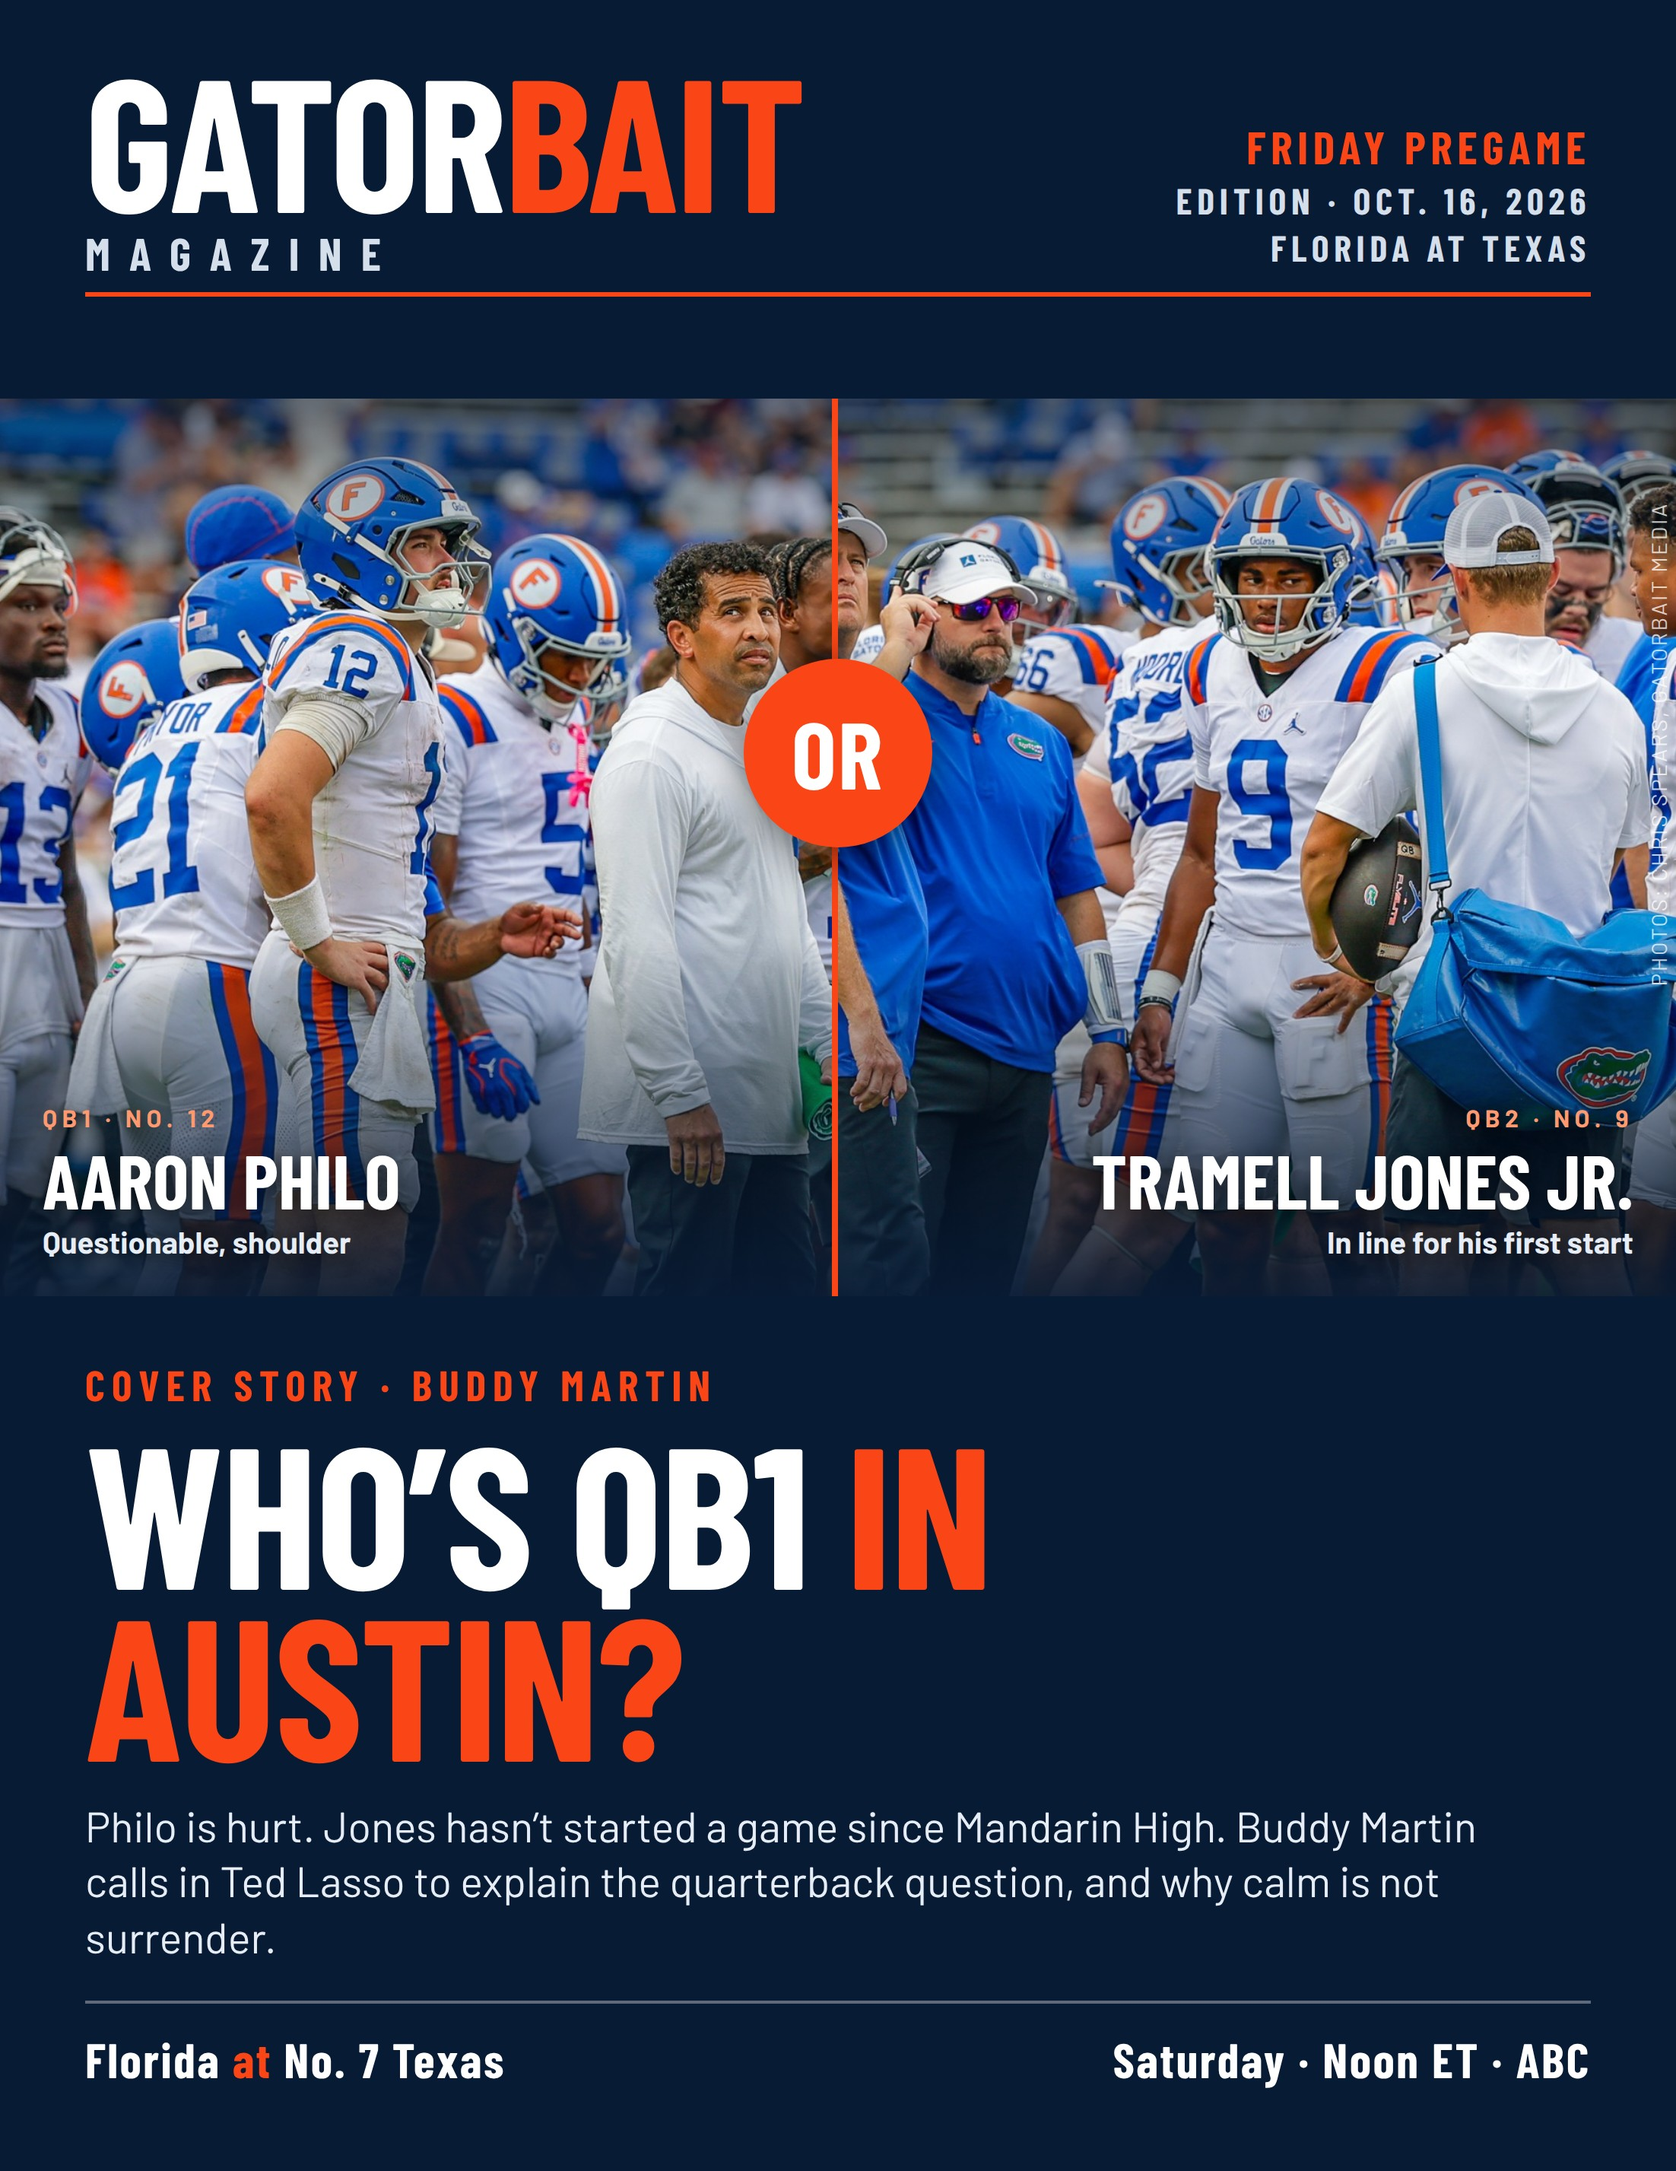
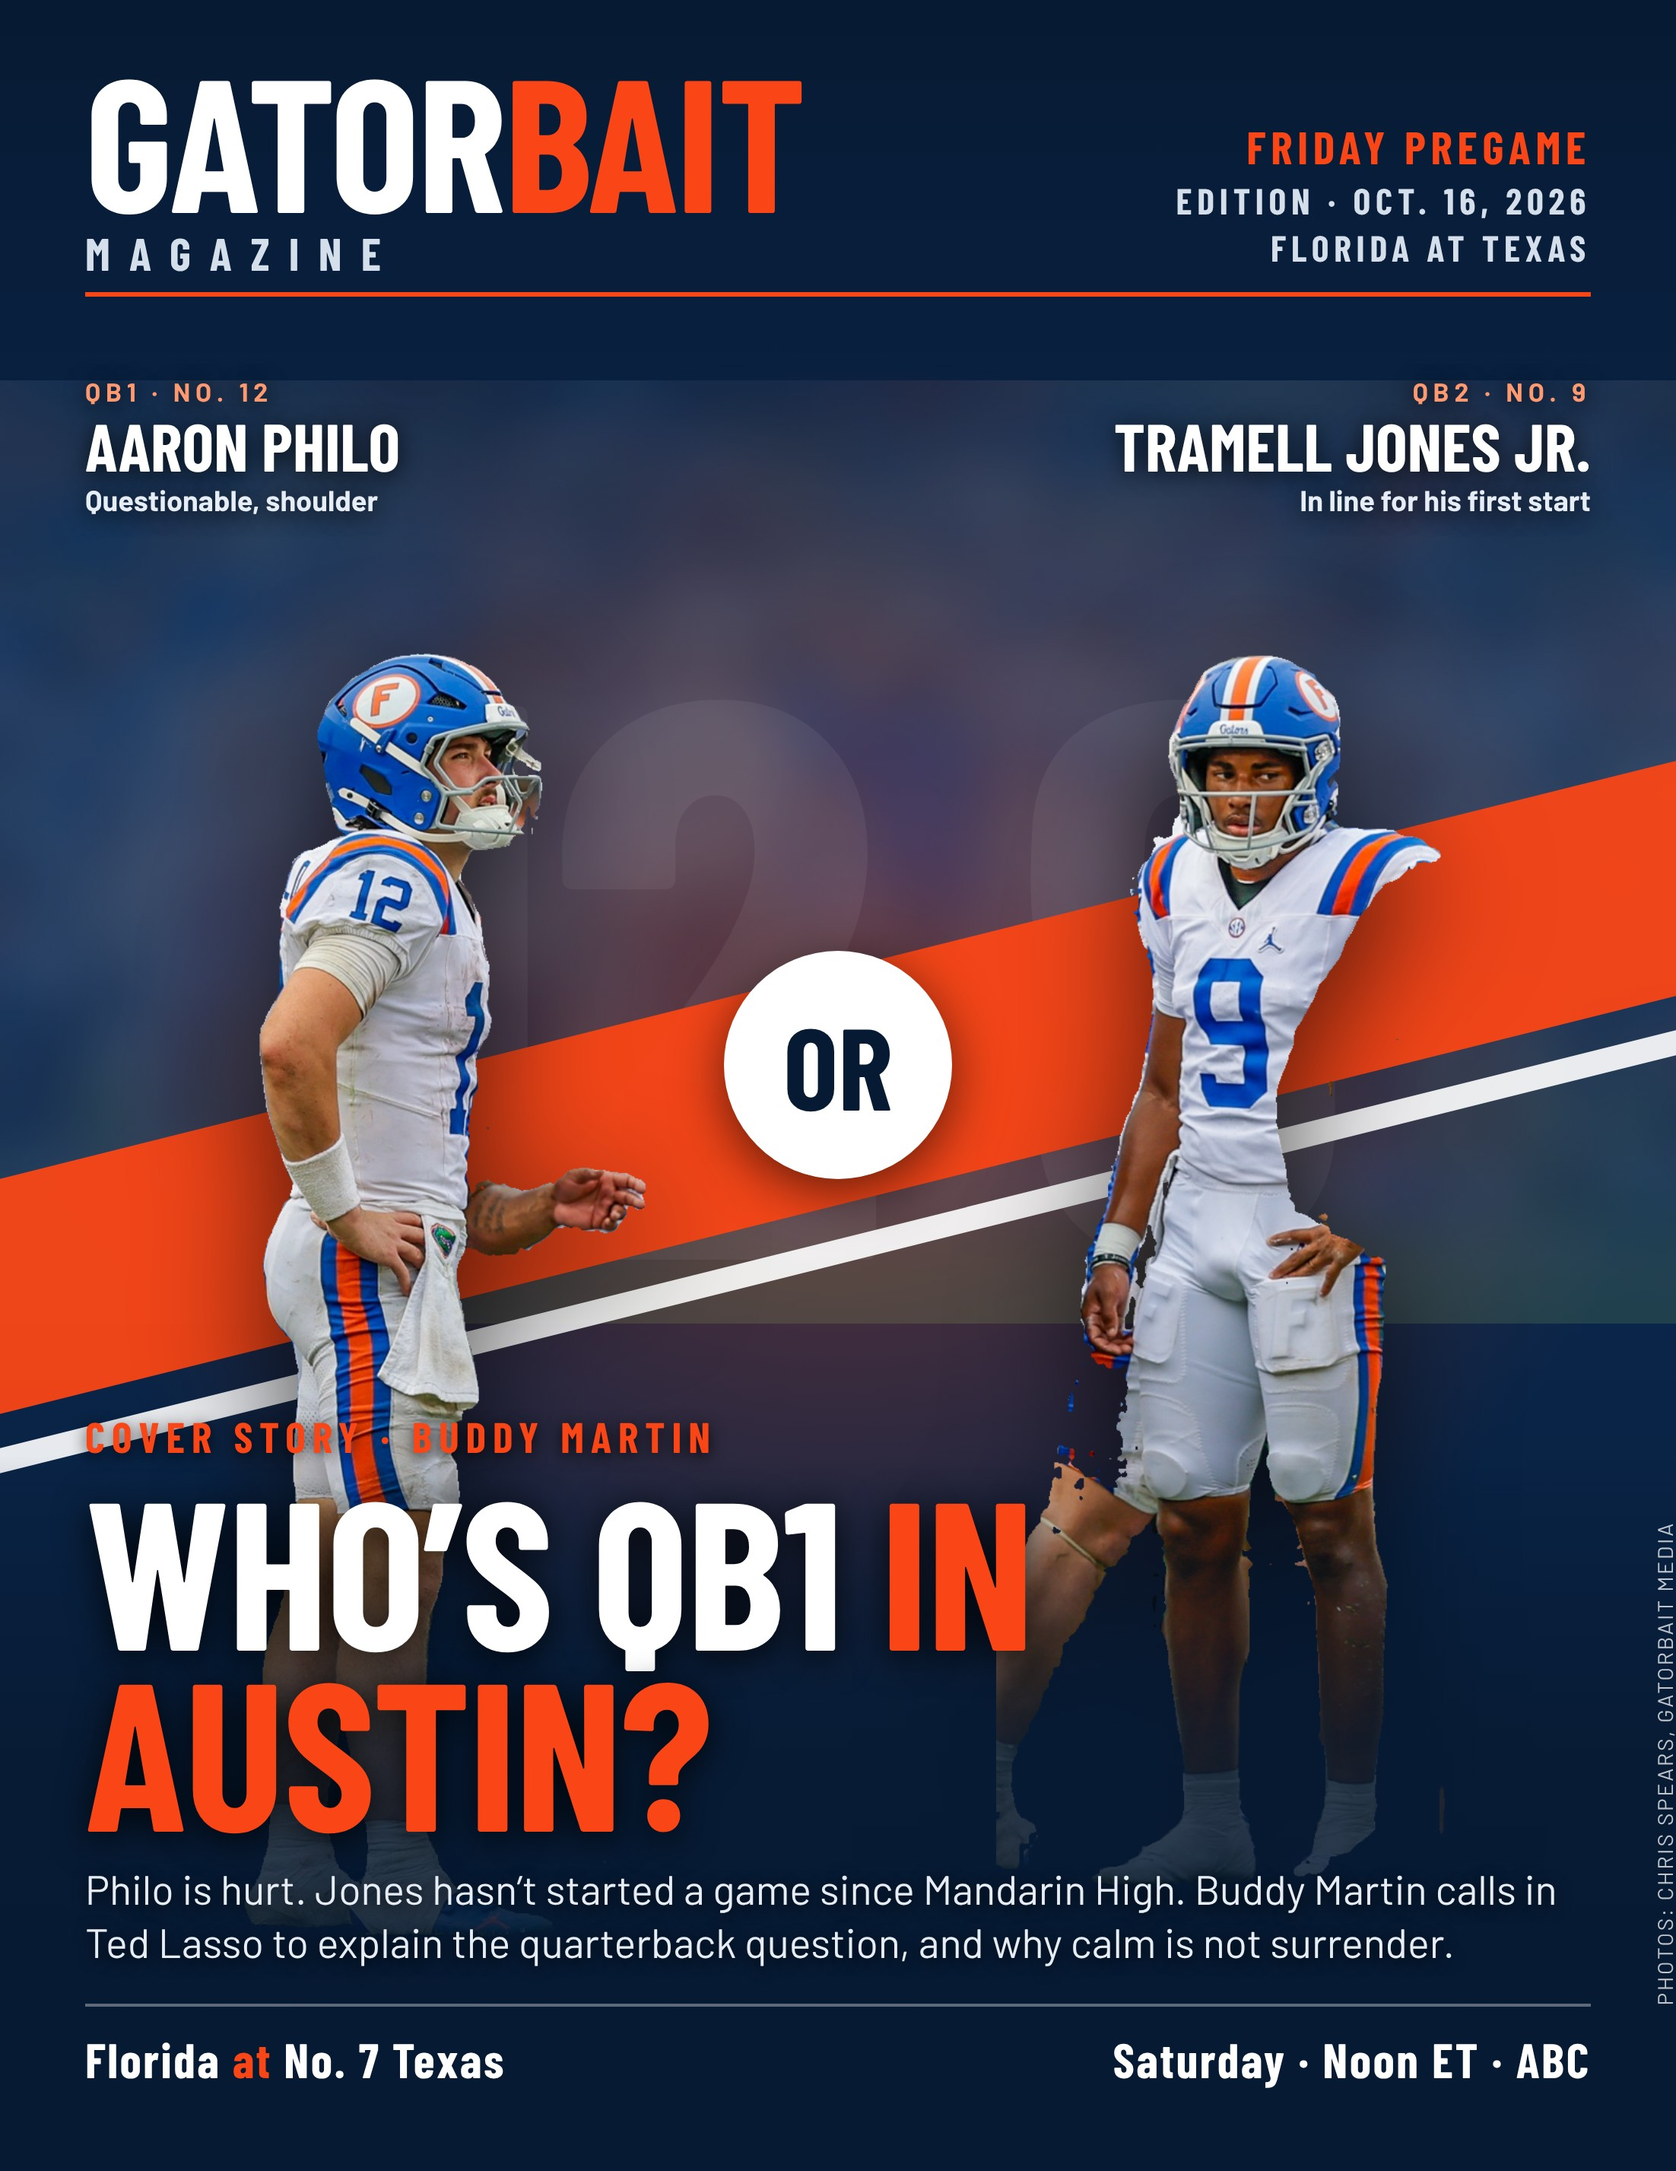
magazine: QB cover v2, isolated players on a designed background
Brenden: crop and isolate each player, fill the frame, give it a
background. Philo and Jones are cut out of the Spears sideline photo
(Adobe select-by-prompt masks on the single-player crops), set large
on a navy field with an orange slash, ghosted 12/9 numerals and a
blurred stadium texture, white OR badge between them. Headline and
labels unchanged. Drops the old panel crops.

Claude-Session: https://claude.ai/code/session_01QUnBu7zkHLGEmUEfSvE4Wp

diff --git a/deploy/magazine-2026/pregame-texas/art/cover.html b/deploy/magazine-2026/pregame-texas/art/cover.html
@@ -1,40 +1,48 @@
 <!doctype html><html><head><meta charset="utf-8"><style>
 *{margin:0;padding:0;box-sizing:border-box}
-html,body{width:1102px;height:1427px;overflow:hidden;background:#081b35}
-.c{position:relative;width:1102px;height:1427px;font-family:"Barlow",sans-serif;color:#fff;overflow:hidden;background:#081b35}
-.mast{position:absolute;top:40px;left:56px;right:56px;display:flex;justify-content:space-between;align-items:flex-end;border-bottom:3px solid #fa4616;padding-bottom:14px}
+html,body{width:1102px;height:1427px;overflow:hidden;background:#071a33}
+.c{position:relative;width:1102px;height:1427px;font-family:"Barlow",sans-serif;color:#fff;overflow:hidden;background:#071a33}
+.bg{position:absolute;inset:0;background:
+ radial-gradient(ellipse 70% 45% at 50% 48%,rgba(250,70,22,.38) 0%,rgba(250,70,22,0) 70%),
+ linear-gradient(180deg,#071a33 0%,#0b2a52 45%,#071a33 100%)}
+.tex{position:absolute;left:0;right:0;top:250px;height:620px;background:url(bg-blur.jpg) center/cover;opacity:.22;mix-blend-mode:screen}
+.slash{position:absolute;left:-200px;top:640px;width:1500px;height:150px;background:#fa4616;transform:rotate(-14deg);opacity:.95}
+.slash2{position:absolute;left:-200px;top:815px;width:1500px;height:16px;background:#fff;transform:rotate(-14deg);opacity:.9}
+.ghost{position:absolute;left:0;right:0;top:360px;text-align:center;font-family:"Barlow Condensed";font-weight:800;font-size:520px;line-height:1;letter-spacing:-.02em;color:rgba(255,255,255,.06)}
+.mast{position:absolute;top:40px;left:56px;right:56px;display:flex;justify-content:space-between;align-items:flex-end;border-bottom:3px solid #fa4616;padding-bottom:14px;z-index:5}
 .logo{font-family:"Barlow Condensed";font-weight:800;font-size:124px;line-height:.82;letter-spacing:-.01em}
 .logo b{color:#fa4616}
 .logo span{display:block;font-size:30px;letter-spacing:.42em;font-weight:700;margin-top:12px;color:#d5dfec}
 .ed{font-family:"Barlow Condensed";font-weight:700;font-size:24px;letter-spacing:.14em;text-transform:uppercase;text-align:right;line-height:1.3;color:#d5dfec}
 .ed b{display:block;color:#fa4616;font-size:30px}
-.panels{position:absolute;top:262px;left:0;right:0;height:590px;display:flex}
-.p{position:relative;width:551px;height:590px;overflow:hidden}
-.p img{position:absolute;inset:0;width:100%;height:100%;object-fit:cover;object-position:center 22%}
-.p.l img{object-position:50% 30%}
-.p.r img{object-position:50% 30%}
-.p:after{content:"";position:absolute;inset:0;background:linear-gradient(180deg,rgba(8,27,53,.55) 0%,rgba(8,27,53,0) 20%,rgba(8,27,53,0) 60%,rgba(8,27,53,.92) 100%)}
-.p.l{border-right:4px solid #fa4616}
-.tag{position:absolute;left:28px;right:28px;bottom:26px;z-index:2;font-family:"Barlow Condensed";font-weight:800;line-height:.95;text-shadow:0 2px 14px rgba(0,0,0,.7)}
-.tag small{display:block;font-family:"Barlow";font-weight:700;font-size:16px;letter-spacing:.2em;text-transform:uppercase;color:#ff9a70;margin-bottom:8px}
-.tag b{display:block;font-size:50px;text-transform:uppercase}
-.tag i{display:block;font-style:normal;font-family:"Barlow";font-weight:600;font-size:20px;margin-top:8px;color:#e6edf6}
-.r .tag{text-align:right}
-.or{position:absolute;left:50%;top:495px;transform:translate(-50%,-50%);z-index:3;width:124px;height:124px;border-radius:50%;background:#fa4616;display:flex;align-items:center;justify-content:center;font-family:"Barlow Condensed";font-weight:800;font-size:62px;letter-spacing:.02em;box-shadow:0 6px 30px rgba(0,0,0,.55)}
-.cr{position:absolute;right:20px;top:330px;transform:rotate(-90deg);transform-origin:right top;font-size:14px;letter-spacing:.1em;color:rgba(255,255,255,.75);z-index:4}
-.bot{position:absolute;left:56px;right:56px;bottom:54px}
-.kick{font-family:"Barlow Condensed";font-weight:700;font-size:28px;letter-spacing:.16em;text-transform:uppercase;color:#fa4616}
-.hed{font-family:"Barlow Condensed";font-weight:800;font-size:132px;line-height:.86;text-transform:uppercase;margin-top:10px;letter-spacing:-.01em}
+.qb{position:absolute;bottom:150px;z-index:3;filter:drop-shadow(0 24px 40px rgba(0,0,0,.65))}
+.qb img{display:block;height:930px;width:auto}
+.qb.l{left:120px}
+.qb.r{right:100px}
+.lab{position:absolute;z-index:6;font-family:"Barlow Condensed";font-weight:800;line-height:.95;text-shadow:0 2px 14px rgba(0,0,0,.8)}
+.lab small{display:block;font-family:"Barlow";font-weight:700;font-size:17px;letter-spacing:.2em;text-transform:uppercase;color:#ff9a70;margin-bottom:6px}
+.lab b{display:block;font-size:44px;text-transform:uppercase}
+.lab i{display:block;font-style:normal;font-family:"Barlow";font-weight:600;font-size:19px;margin-top:6px;color:#e6edf6}
+.lab.l{left:56px;top:250px}
+.lab.r{right:56px;top:250px;text-align:right}
+.or{position:absolute;left:50%;top:700px;transform:translate(-50%,-50%);z-index:4;width:150px;height:150px;border-radius:50%;background:#fff;color:#071a33;display:flex;align-items:center;justify-content:center;font-family:"Barlow Condensed";font-weight:800;font-size:76px;box-shadow:0 8px 34px rgba(0,0,0,.6)}
+.cr{position:absolute;right:16px;top:1000px;transform:rotate(-90deg);transform-origin:right top;font-size:14px;letter-spacing:.1em;color:rgba(255,255,255,.75);z-index:6}
+.bot{position:absolute;left:56px;right:56px;bottom:54px;z-index:7}
+.kick{font-family:"Barlow Condensed";font-weight:700;font-size:28px;letter-spacing:.16em;text-transform:uppercase;color:#fa4616;text-shadow:0 2px 10px rgba(0,0,0,.8)}
+.hed{font-family:"Barlow Condensed";font-weight:800;font-size:138px;line-height:.86;text-transform:uppercase;margin-top:10px;letter-spacing:-.01em;text-shadow:0 4px 24px rgba(0,0,0,.85)}
 .hed b{color:#fa4616}
-.dek{font-size:28px;line-height:1.3;margin-top:18px;color:#e6edf6;max-width:960px}
-.game{margin-top:24px;display:flex;justify-content:space-between;align-items:center;border-top:2px solid rgba(255,255,255,.35);padding-top:18px;font-family:"Barlow Condensed";font-weight:700;font-size:32px;letter-spacing:.04em}
+.dek{font-size:27px;line-height:1.3;margin-top:16px;color:#e6edf6;max-width:980px;text-shadow:0 2px 10px rgba(0,0,0,.9)}
+.game{margin-top:22px;display:flex;justify-content:space-between;align-items:center;border-top:2px solid rgba(255,255,255,.35);padding-top:16px;font-family:"Barlow Condensed";font-weight:700;font-size:32px;letter-spacing:.04em}
 .game span{color:#fa4616}
+.fade{position:absolute;left:0;right:0;bottom:0;height:470px;background:linear-gradient(180deg,rgba(7,26,51,0) 0%,rgba(7,26,51,.78) 40%,rgba(7,26,51,.97) 100%);z-index:4}
 </style></head><body><div class="c">
+<div class="bg"></div><div class="tex"></div><div class="ghost">12 9</div><div class="slash"></div><div class="slash2"></div>
 <div class="mast"><div class="logo">GATOR<b>BAIT</b><span>MAGAZINE</span></div><div class="ed"><b>Friday Pregame</b>Edition · Oct. 16, 2026<br>Florida at Texas</div></div>
-<div class="panels">
- <div class="p l"><img src="philo.jpg" alt=""><div class="tag"><small>QB1 · No. 12</small><b>Aaron Philo</b><i>Questionable, shoulder</i></div></div>
- <div class="p r"><img src="jones.jpg" alt=""><div class="tag"><small>QB2 · No. 9</small><b>Tramell Jones Jr.</b><i>In line for his first start</i></div></div>
-</div>
+<div class="lab l"><small>QB1 · No. 12</small><b>Aaron Philo</b><i>Questionable, shoulder</i></div>
+<div class="lab r"><small>QB2 · No. 9</small><b>Tramell Jones Jr.</b><i>In line for his first start</i></div>
+<div class="qb l"><img src="philo-iso.png" alt=""></div>
+<div class="qb r"><img src="jones-iso.png" alt=""></div>
+<div class="fade"></div>
 <div class="or">OR</div>
 <div class="cr">PHOTOS: CHRIS SPEARS, GATORBAIT MEDIA</div>
 <div class="bot">
